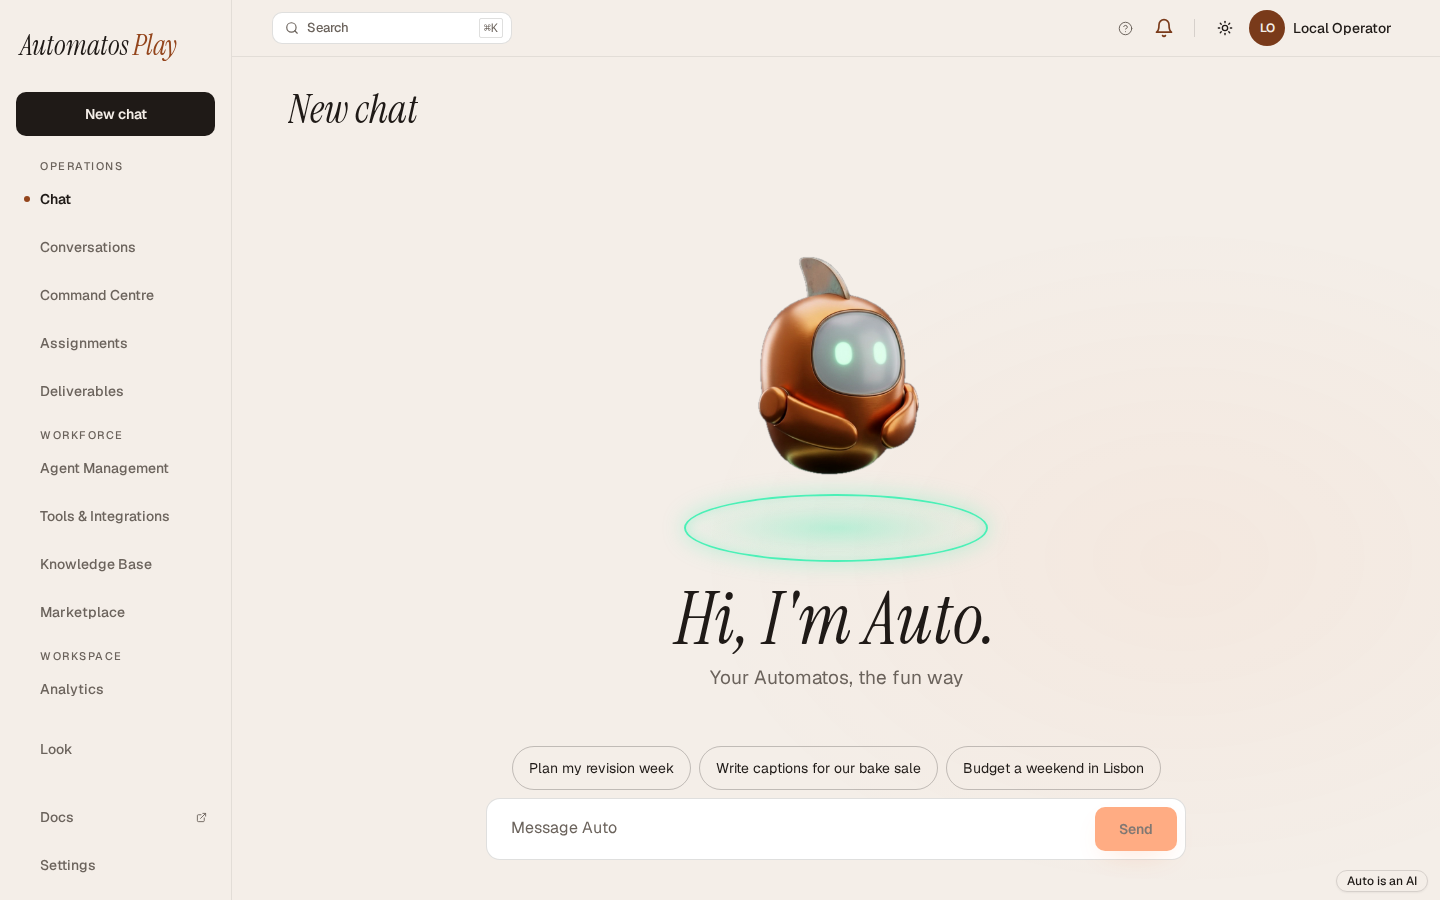
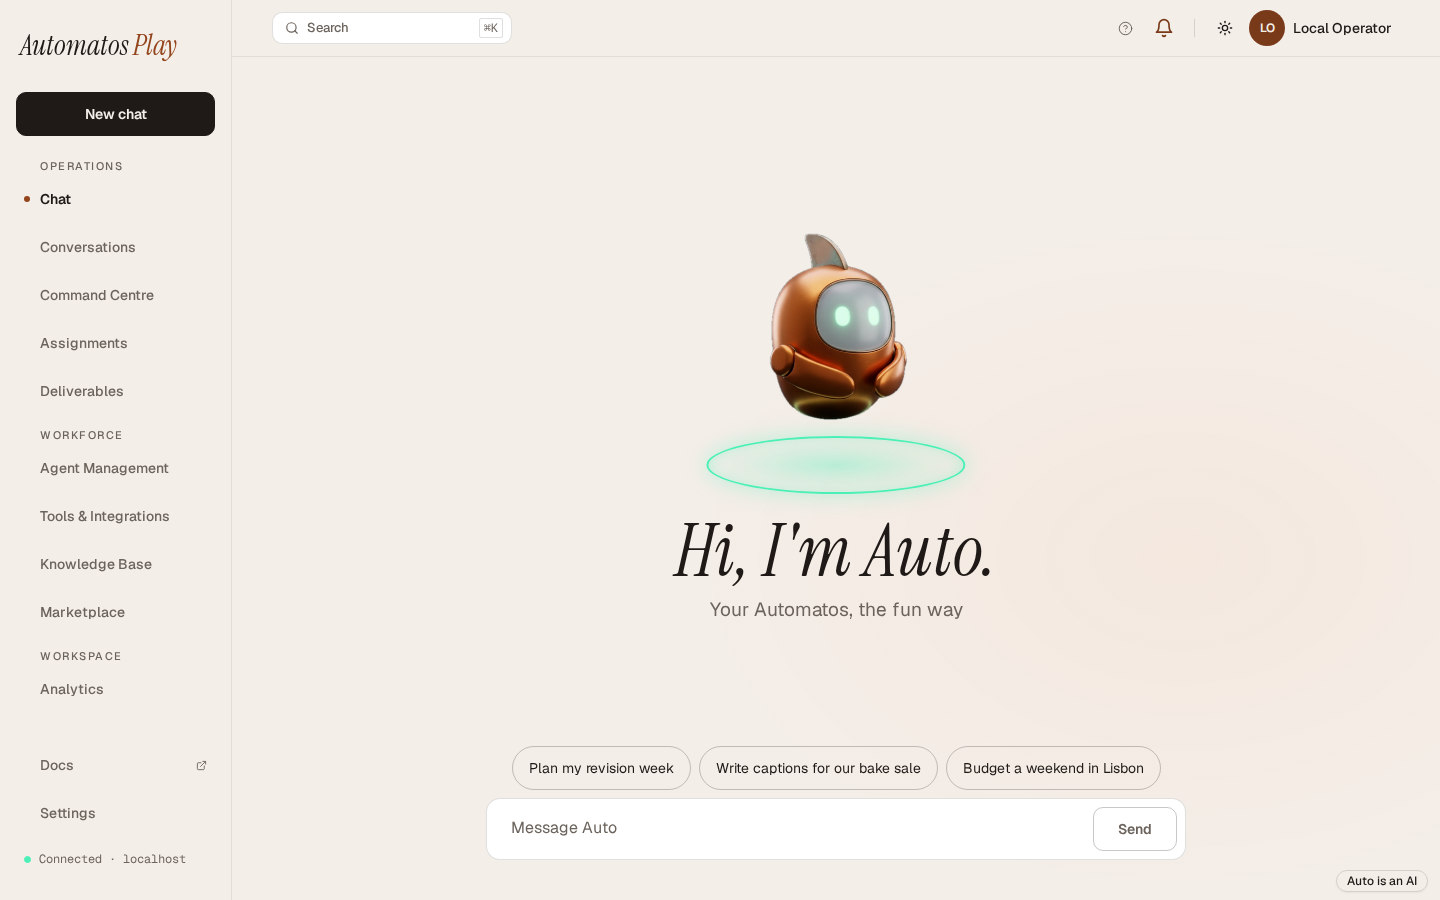
feat(play): 1.1.1's listing previews, shot from the polished Play installed in core
From core's browser lane (play-previews, run 40165345497, kit f5db483): each preset's chat, Ember's shelf and Look page, at 1440x900. Same seven names as theme.json lists.

diff --git a/themes/play/CHANGELOG.md b/themes/play/CHANGELOG.md
@@ -4,6 +4,10 @@ Play's versions, newest first. A released version's files never change: a change
 
 ## 1.1.1
 
+- **New listing previews.** The seven pictures `theme.json` lists under `previews` (each preset's chat, and Ember's
+  shelf and Look page) are shot again from 1.1.1 installed in core's local edition (core's browser lane, the
+  `play-previews` shots), so the listing shows the first chat that fits the window, the pinned sidebar foot and the
+  Look page as they are now. Same names and sizes; `theme.json` is unchanged.
 - **The old markers are gone.** Play's motion stop now reads only the host's generic marker,
   `data-theme-motion="reduce"` on `<html>`, and its motion factor `--pl-motion-scale` only the host's
   `--theme-motion` (1 when the host sets none). The `data-pl-motion` selector and the `--pl-motion` fallback, which
